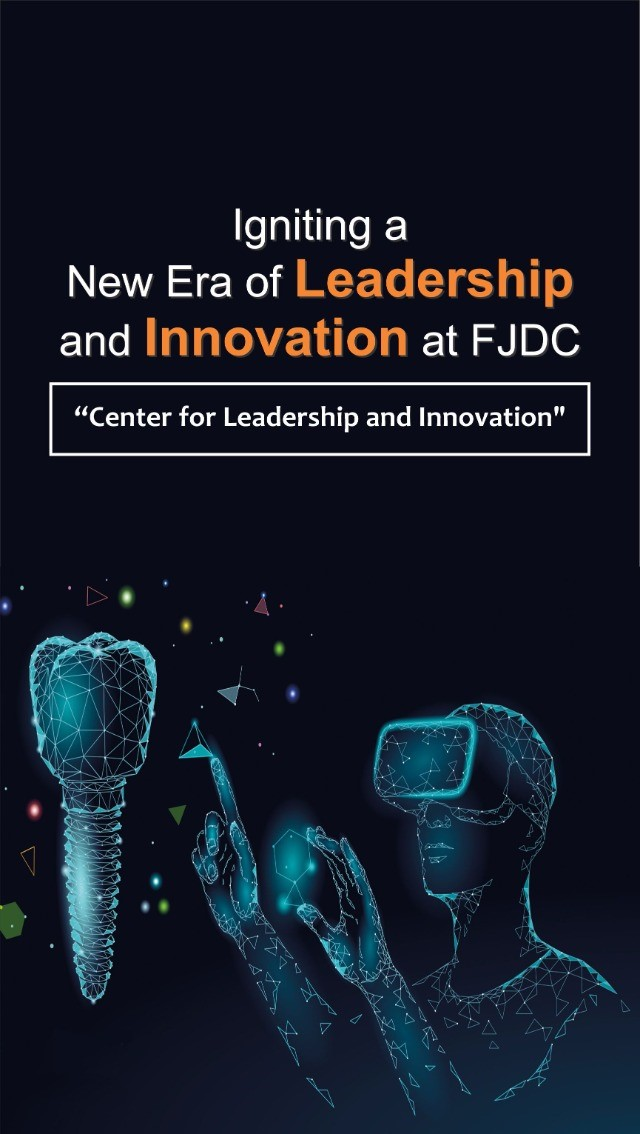
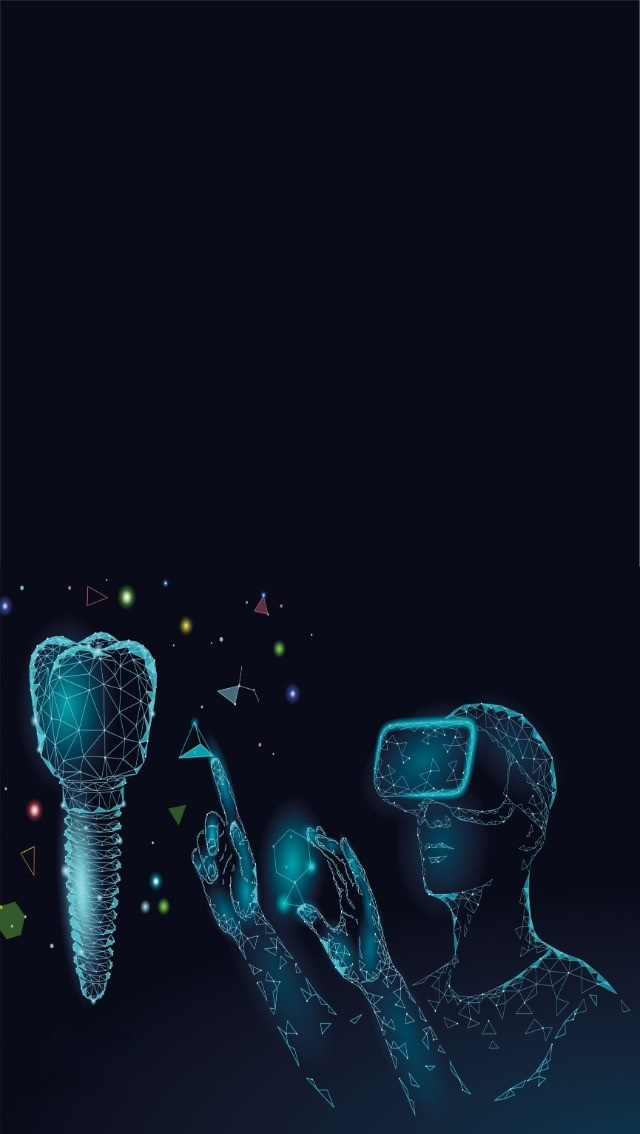
added the course page

Changed region(s): [[0.0938, 0.1852, 0.9062, 0.4012], [0.9062, 0.3395, 0.9375, 0.4012], [0.0625, 0.3395, 0.0938, 0.4012]]

diff --git a/src/app/Course-Outline/page.tsx b/src/app/Course-Outline/page.tsx
@@ -1,0 +1,144 @@
+"use client";
+import fjlogo from "../../../public/fjdclogo.jpg";
+import panalogo from "../../../public/panacloudlogo.jpg";
+import Image from "next/image";
+import { useState } from "react";
+import fjdc from "../../../public/fjdc.jpg";
+
+export const programsData = [
+  {
+    id: "web",
+    heading1: "Quarter I: Introduction and Python Programming (3 Months)",
+    text1: "",
+    heading2:
+      "Part 1: Getting started with Generative AI in healthcare and life sciences",
+    text2:
+      "Before diving into the core concepts of Generative AI, it's important to build a foundational understanding of how AI can be used in health care. The integration of these cutting-edge technologies holds considerable promise in augmenting patient care, facilitating medical research, and alleviating the workload on healthcare professionals. In this module we will investigate the latest advancements in this field, we seek to gain insights into the transformative potential of state-of-the-art AI language models in shaping the future landscape of healthcare.",
+    heading3: "Part 2: Python Crash Course",
+    text3:
+      "Python Crash Course is a fast-paced, thorough introduction to Python that will have you writing programs, solving problems, and making things that work in no time. In this first module, you will learn about basic programming concepts, such as lists, dictionaries, classes, and loops, and practice writing clean and readable code with exercises for each topic. You will also learn how to make your programs interactive and how to test your code safely before adding it to a project.",
+    img: <Image src={fjlogo} alt={"web 3.0"}></Image>,
+  },
+  {
+    id: "ai",
+    heading1:
+      "Quarter II: Prompt Engineering, Data Analytics, and Generative AI (3 Months)",
+    text1: "",
+    heading2: "Part 1: Prompt Engineering",
+    text2: `Before diving into the core concepts of Generative AI, it's important to build a foundational understanding of AI. Here are some resources we will use in class to get you started:
+    <a href="https://www.deeplearning.ai/courses/ai-for-everyone/" className="text-blue-500 hover:underline">(1) AI for Everyone Course</a>
+    <a href="https://www.youtube.com/watch?v=G2fqAlgmoPo" className="text-blue-500 hover:underline">(2) Introduction to Generative AI</a>
+    <a href="https://learn.deeplearning.ai/chatgpt-prompt-eng/" className="text-blue-500 hover:underline">(3) ChatGPT Prompt Engineering</a>
+    <a href="https://www.paubox.com/blog/100-chatgpt-prompts-for-healthcare-professionals" className="text-blue-500 hover:underline">(4) 100+ ChatGPT prompts for healthcare professionals</a>
+    <a href="https://medium.com/@ismailsaleem/chatgpt-prompts-for-doctors-c2bbdae90131" className="text-blue-500 hover:underline">(5) Prompts for Doctors</a>`,
+    heading3: "Part 2: Healthcare Data Analytics using Python",
+    text3: `In this module, we will showcase the potential of python to work on clinical data. We will introduce you to some of the powerful applications Python has for handling and manipulating data, conducting statistical analyses, and generating graphs and other visuals. We will be leveraging sample clinical data to power real examples throughout the session.\n a) Data Analytics\n b) Visualizing Data\n c) Robotic Process Automation\n d) Case Studies`,
+    heading4: "Part 3: Generative AI for Medicine and Healthcare Professionals",
+    text4:
+      "GenAI is transforming the practice of medicine. It’s helping doctors diagnose patients more accurately, make predictions about patients’ future health, and recommend better treatments. This module will give you practical experience in applying GenAI to concrete problems in medicine. You will start by understanding the fundamental concepts of Generative AI and its various applications in healthcare. We will work with different Language Model variants like ChatGPT, Med-Palm2, and more. We will harness langchain strategies to enhance the performance of Language Models in various healthcare tasks.",
+    img: <Image src={fjlogo} alt={"AI"}></Image>,
+  },
+];
+
+const Outline = () => {
+  const [selectedItem, setSelectedItem] = useState("web");
+  const selectedItemData = programsData.find(
+    (item) => item.id === selectedItem
+  );
+
+  return (
+    
+    <section className=" mx-5">
+      <Image
+        src={fjdc} // Path to your image
+        alt="Background image"
+        layout="fill"
+        objectFit="cover"
+        objectPosition="center"
+        className="z-0"
+      />
+      <div className="absolute inset-0 bg-white opacity-40 z-10"></div>
+      <div className="z-10 relative">
+        <h1 className="m-10 text-5xl font-extrabold text-center text">
+          {" "}
+          Certified Generative AI Healthcare and Medical Specialist
+        </h1>
+        <p className="text-center m-6 rounded-xl p-3 text-2xl bg-slate-700 text-white">
+          Generative AI in healthcare refers to the application of generative
+          artificial intelligence techniques and models in various aspects of
+          the healthcare industry. It involves using machine learning algorithms
+          to generate new and original content that is relevant to healthcare,
+          such as medical images, personalized treatment plans, and more.
+        </p>
+
+
+        
+        <div className="mt-20 md:flex md:flex-row gap-x-10 gap-y-8 mb-10">
+          <div className="basis-2/12 mx-2">
+            {programsData.map((elem) => (
+              <div
+                key={elem.id}
+                onClick={() => setSelectedItem(elem.id)}
+                className={`rounded-xl my-6 shadow-sm flex mx-4 text-center items-start cursor-pointer ${selectedItem === elem.id ? 'bg-orange-400' : 'bg-yellow-500 hover:scale-95'}`}
+                >
+                <div className=" rounded-xl shadow-md ">
+                  <div>
+                    <h3 className="my-6 font-sans font-medium m-2">
+                      {elem.heading1}
+                    </h3>
+                  </div>
+                </div>
+              </div>
+            ))}
+          </div>
+          <div className="shadow-2xl bg-yellow-500 rounded-2xl border-blue-600 p-14 h-auto">
+            <div className="max-w-screen-md self-start">
+              <h3 className="font-bold text-2xl text-center">
+                {selectedItemData?.heading1}
+              </h3>
+              <p className="text-slate-700 whitespace-pre-line">
+                {selectedItemData?.text1}
+              </p>
+              <div>
+                <div className="flex flex-col md:flex-row gap-16">
+                  <div className="basis-1/2 mt-16">
+                    <h3 className="font-bold text-lg mb-2">
+                      {selectedItemData?.heading2}
+                    </h3>
+                    {selectedItemData?.text2 && (
+                      <p
+                        className="whitespace-pre-line text-lg"
+                        dangerouslySetInnerHTML={{
+                          __html: selectedItemData?.text2,
+                        }}
+                      ></p>
+                    )}
+                  </div>
+                  <div className="basis-1/2 mt-16">
+                    <h3 className="font-bold mb-2 text-lg">
+                      {selectedItemData?.heading3}
+                    </h3>
+                    <p className="whitespace-pre-line text-lg">
+                      {selectedItemData?.text3}
+                    </p>
+                  </div>
+                </div>
+                <div>
+                  <div className="basis-1/2 mt-16">
+                    <h3 className="font-bold mb-2 text-lg">
+                      {selectedItemData?.heading4}
+                    </h3>
+                    <p className="whitespace-pre-line text-lg">
+                      {selectedItemData?.text4}
+                    </p>
+                  </div>
+                </div>
+              </div>
+            </div>
+          </div>
+        </div>
+      </div>
+    </section>
+  );
+};
+export default Outline;

diff --git a/src/app/page.tsx b/src/app/page.tsx
@@ -2,12 +2,14 @@
 // Import the necessary libraries
 import { useEffect, useLayoutEffect, useState } from "react";
 import fjdc from "../../public/fjdcbanner.jpg";
-import fjdcstandee from '../../public/fjdcstandee.jpg'
-import landing from '../../public/landing.jpg'
-import fjdc1 from '../../public/fjdc-transformed.jpeg'
+import fjdcstandee from "../../public/fjdcstandee.jpg";
+import landingblank from "../../public/sdaf.jpg";
 
 function useWindowSize() {
-  const [windowSize, setWindowSize] = useState<{ width?: number, height?: number }>({
+  const [windowSize, setWindowSize] = useState<{
+    width?: number;
+    height?: number;
+  }>({
     width: undefined,
     height: undefined,
   });
@@ -19,17 +21,16 @@ function useWindowSize() {
         height: window.innerHeight,
       });
     }
-    
-    window.addEventListener('resize', handleResize);
-    
+
+    window.addEventListener("resize", handleResize);
+
     handleResize();
-    
-    return () => window.removeEventListener('resize', handleResize);
+
+    return () => window.removeEventListener("resize", handleResize);
   }, []);
 
   return windowSize;
 }
-
 
 export default function Home() {
   const size = useWindowSize();
@@ -53,22 +54,27 @@ export default function Home() {
 
     return () => clearInterval(textInterval);
   }, []);
-  
+
   return (
-    <div
-  className="flex flex-col items-center justify-center min-h-screen py-2 md:px-40 px-4"
-  style={{
-    backgroundImage: `url(${(size.width || 0) > 768 ? fjdc.src : fjdcstandee.src})`,
-    backgroundSize: (size.width || 0) > 768 ? "cover" : "contain",
-    backgroundPosition: "center",
-    width: '110vw', 
-  height: '100vh'
-  }}
->
+    <><div
+      className="flex flex-col items-center justify-center min-h-screen py-2 md:px-18 lg:px-12 px-4"
+      style={{
+        backgroundImage: `url(${(size.width || 0) > 600 ? landingblank.src : fjdcstandee.src})`,
+        backgroundSize: (size.width || 0) > 600 ? "cover" : "cover",
+        backgroundPosition: "center",
+      }}
+    >
       <main className="flex flex-col items-center justify-center w-full flex-1 text-center">
         <div className="flex flex-col md:flex-row md:justify-end w-full">
-          <div className="md:w-1/2 p-4">
-            {/* Empty div for left half of the page */}
+          <div className="md:w-1/2 p-2 flex flex-col m-12 space-y-3 items-center justify-center">
+            <h1 className="text-3xl md:text-4xl lg:text-4xl xl:text-5xl 2xl:text-6xl text-white font-bold mb-4">
+              Welcome to <span className="text-yellow-500">FJDC.AI</span>
+            </h1>
+            <p className="text-md md:text-lg lg:text-xl xl:text-2xl 2xl:text-3xl text-white">
+              Igniting a new ERA of{" "}
+              <span className="text-yellow-500 font-bold">Leadership</span> and{" "}
+              <span className="text-yellow-500 font-bold">Innovation</span> at FJDC
+            </p>
           </div>
           <div className="flex flex-col gap-6">
             <div
@@ -95,13 +101,13 @@ export default function Home() {
             </div>
             <div className="mx-10 flex flex-col gap-8 items-center justify-center sm:mx-10 md:mx-40">
               <a
-                href="https://forms.gle/V2DRjj2ChmLVVkqJ8"
-                className=" w-full mt-28 bg-yellow-500 hover:bg-orange-400 hover:scale-105 font-bold text-xl py-1 px-2 sm:px-4 md:px-8 rounded text-center whitespace-nowrap"
+                href="https://forms.gle/iRpMT7QXyQ3AHCaaA"
+                className=" w-full mt-10 bg-yellow-500 hover:bg-orange-400 hover:scale-105 font-bold text-xl py-1 px-2 sm:px-4 md:px-8 rounded text-center whitespace-nowrap"
               >
-                Pre-Register Now
+                Register Now
               </a>
               <a
-                href="https://docs.google.com/document/d/1HwSCgdMPQxNmVN3Y5PxQqLUeNYxxemH-EI8oGpxyyYc/"
+                href="/Course-Outline"
                 className="w-full bg-yellow-500 hover:bg-orange-400 hover:scale-105 font-bold text-xl py-1 px-2 sm:px-4 md:px-8 rounded text-center whitespace-nowrap"
               >
                 Course Outline
@@ -123,9 +129,10 @@ export default function Home() {
         </div>
       </main>
 
-      <footer className="w-full h-12 md:h-24 text-white flex justify-center items-center">
+
+    </div><footer className="w-full h-12 md:h-24 text-white flex justify-center items-center">
         © 2023 FJDC.AI
-      </footer>
-    </div>
+      </footer></>
+      
   );
 }

diff --git a/src/app/layout.tsx b/src/app/layout.tsx
@@ -17,7 +17,10 @@ export default function RootLayout({
 }) {
   return (
     <html lang="en">
-      <body className={inter.className}>{children}  <Analytics /></body>
+      <body className={inter.className}>
+        {children}
+        <Analytics/>
+        </body>
     </html>
   );
 }
